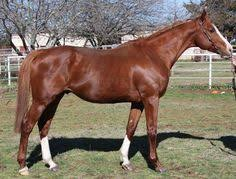
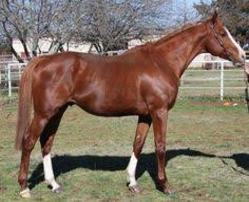
cheval anglais / francais

diff --git a/chevaux.html b/chevaux.html
@@ -108,7 +108,7 @@
     </div>
 
 
-
+    <!--Cheval Anglais-->
     <div class="site-section bg-light">
       <div class="container">
         <div class="row mb-5">
@@ -127,6 +127,7 @@
                  Mâle</p>
             </div>
           </div>
+
           <div class="col-md-6 col-lg-4 mb-5 mb-lg-0">
             <div class="media-with-text">
               <div class="img-border-sm mb-4">
@@ -142,8 +143,8 @@
                  Femelle</p>
             </div>
           </div>
-          <div class="col-md-6 col-lg-4 mb-5 mb-lg-0">
 
+          <div class="col-md-6 col-lg-4 mb-5 mb-lg-0">
             <div class="media-with-text">
               <div class="img-border-sm mb-4">
                 <a href="#">
@@ -159,32 +160,40 @@
             </div>
           </div>
 
+          <!--Cheval Français-->
           <div class="col-md-6 col-lg-4 mb-5 mb-lg-0">
             <div class="media-with-text">
               <div class="img-border-sm mb-4">
                 <a href="#">
-                  <img src="images/img_1.jpg" alt="" class="img-fluid">
+                  <img src="Cheval_francais1.jpg" alt="" class="img-fluid">
                 </a>
               </div>
-              <h2 class="heading mb-0"><a href="#">Church Bible Study</a></h2>
-              <span class="mb-3 d-block post-date">January 20, 2018 &bullet; By <a href="#">Josh Holmes</a></span>
-              <p>Lorem ipsum dolor sit amet consectetur adipisicing elit. Optio dolores culpa qui aliquam placeat nobis veritatis tempora natus rerum obcaecati.</p>
+              <h2 class="heading mb-0"><a href="#">Foudre</a></h2>
+              <span class="mb-3 d-block post-date">Cheval Français &bullet; <a href="#">Josh Holmes</a></span>
+              <p>12 ans &bullet;
+                 165cm &bullet;
+                 505 kg &bullet;
+                 Femelle</p>
             </div>
           </div>
-          <div class="col-md-6 col-lg-4 mb-5 mb-lg-0">
-            <div class="media-with-text">
-              <div class="img-border-sm mb-4">
-                <a href="#">
-                  <img src="images/img_2.jpg" alt="" class="img-fluid">
-                </a>
-              </div>
-              <h2 class="heading mb-0"><a href="#">Church Building Accomplishments in January 2018</a></h2>
-              <span class="mb-3 d-block post-date">January 20, 2018 &bullet; By <a href="#">Josh Holmes</a></span>
-              <p>Lorem ipsum dolor sit amet consectetur adipisicing elit. Optio dolores culpa qui aliquam placeat nobis veritatis tempora natus rerum obcaecati.</p>
-            </div>
-          </div>
-          <div class="col-md-6 col-lg-4 mb-5 mb-lg-0">
 
+          <div class="col-md-6 col-lg-4 mb-5 mb-lg-0">
+            <div class="media-with-text">
+              <div class="img-border-sm mb-4">
+                <a href="#">
+                  <img src="Cheval_francais2.jpg" alt="" class="img-fluid">
+                </a>
+              </div>
+              <h2 class="heading mb-0"><a href="#">Elvis</a></h2>
+              <span class="mb-3 d-block post-date">Cheval Français &bullet; <a href="#">Josh Holmes</a></span>
+              <p>22 ans &bullet;
+                 173cm &bullet;
+                 530 kg &bullet;
+                 Male</p>
+            </div>
+          </div>
+
+          <div class="col-md-6 col-lg-4 mb-5 mb-lg-0">
             <div class="media-with-text">
               <div class="img-border-sm mb-4">
                 <a href="#">
@@ -227,7 +236,7 @@
 
         <div class="row">
           <div class="col-md-6 mx-auto text-center mb-5 section-heading">
-            <h2>Testimonies</h2>
+            <h2>Notre Equipe</h2>
           </div>
         </div>
 
